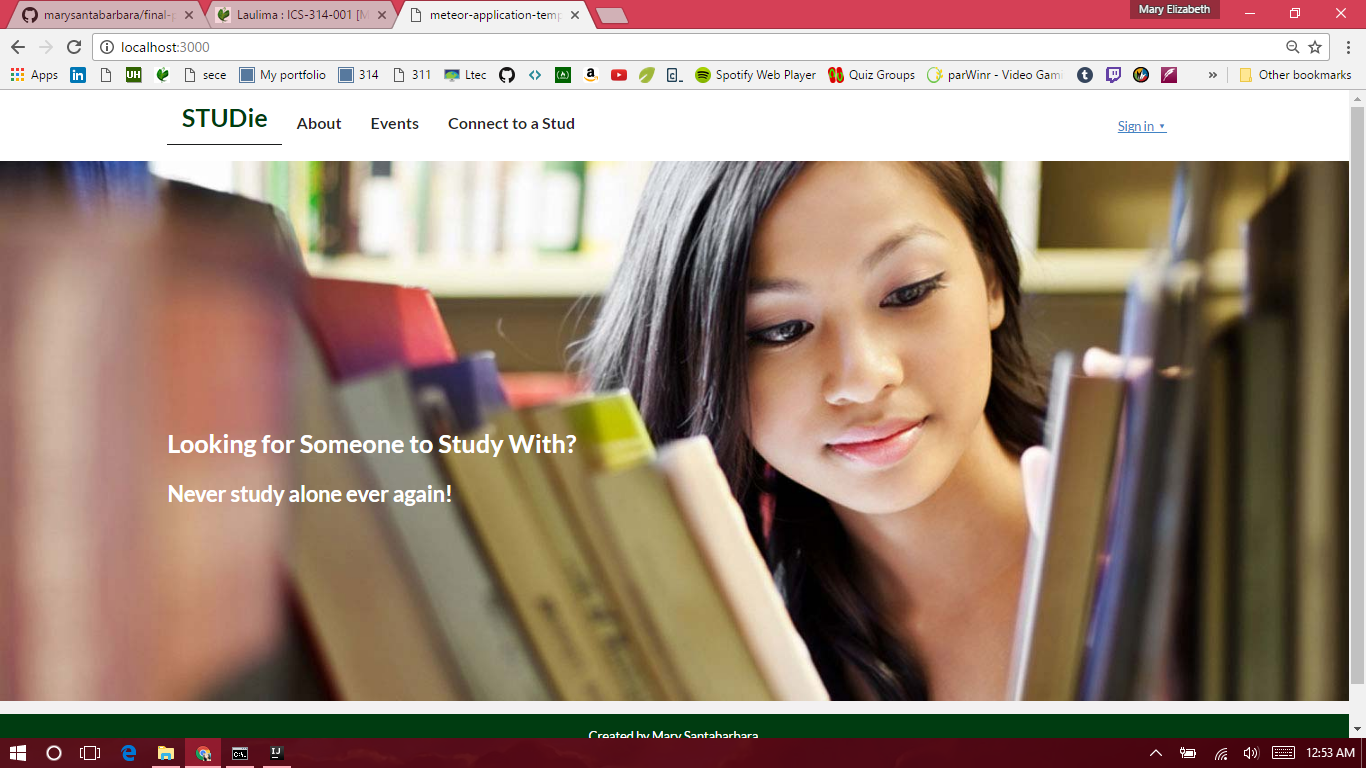
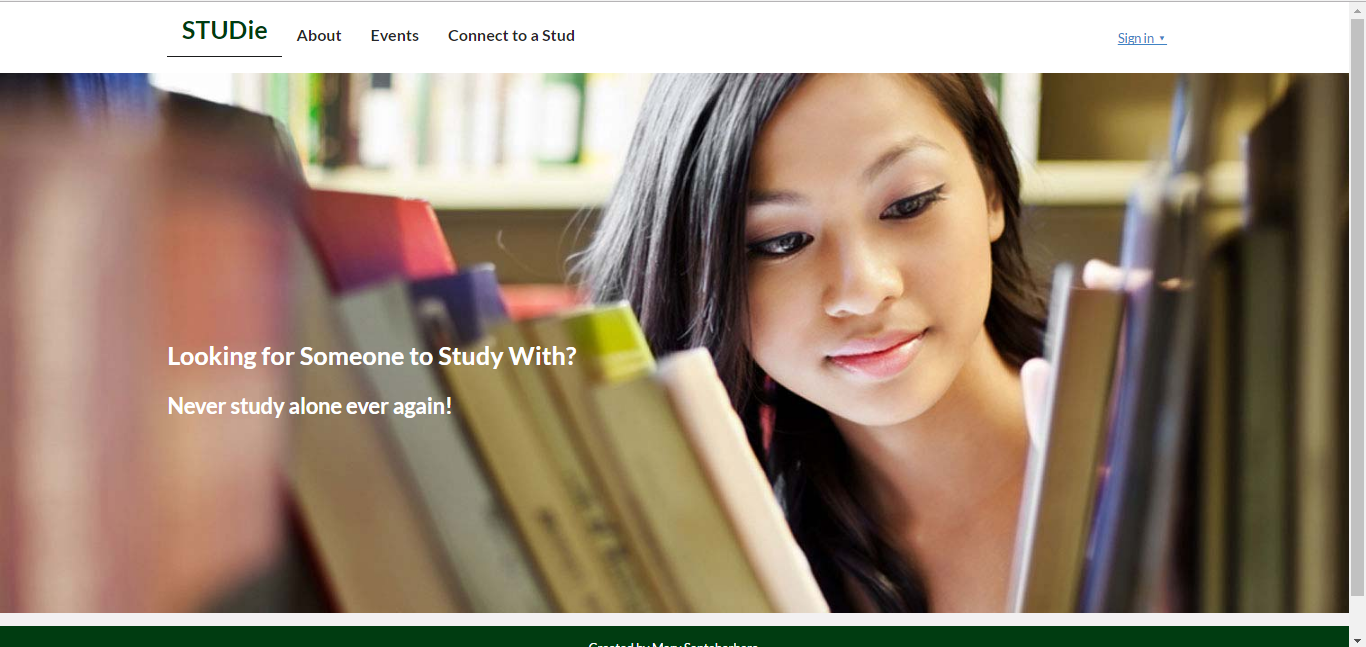
fix read me file and landing page screen shot

diff --git a/README.md b/README.md
@@ -14,7 +14,7 @@
 
 ## Connect Page
 
-<img src="doc\connect-page.png"
+<img src="doc\connect-page.png">
 
 ## Profile Page / User Homepage
 
